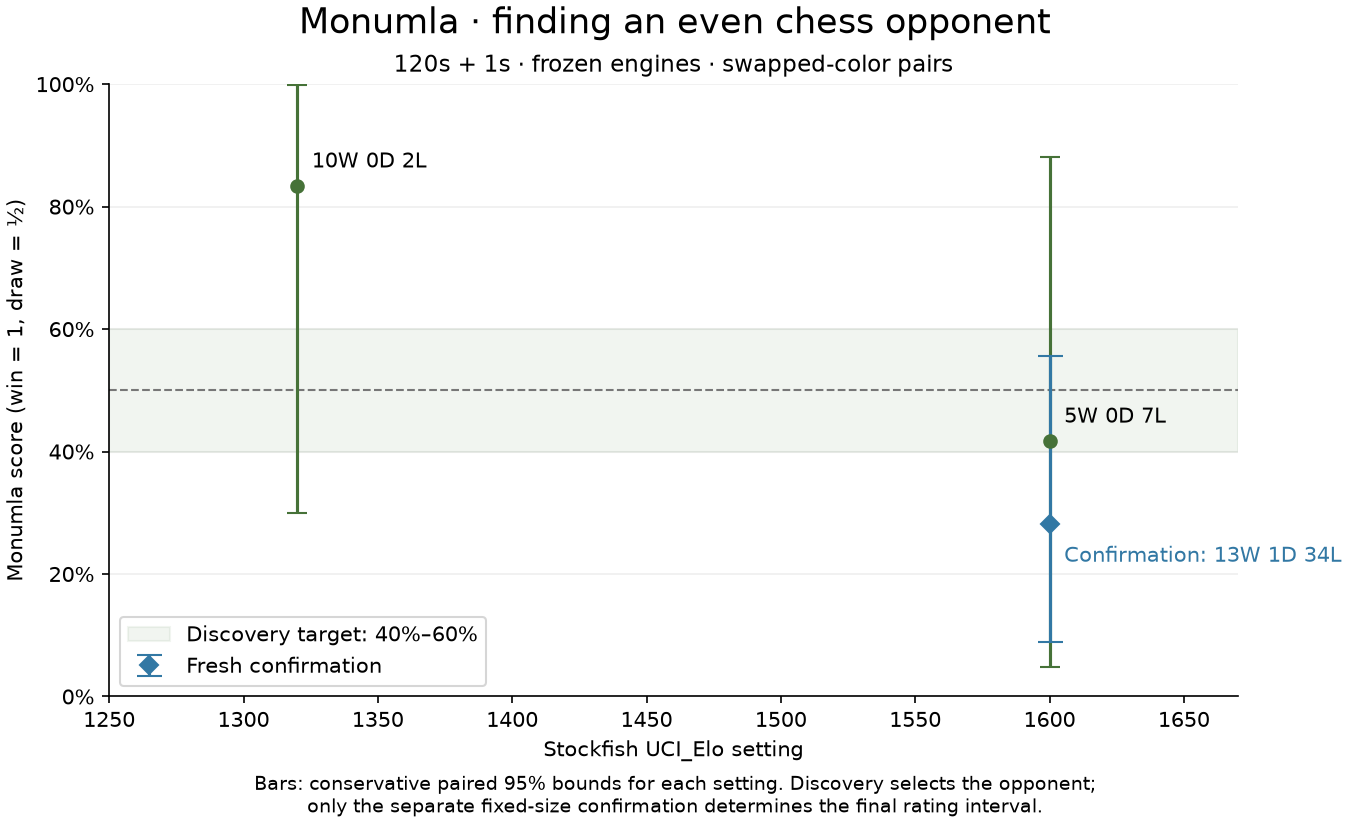
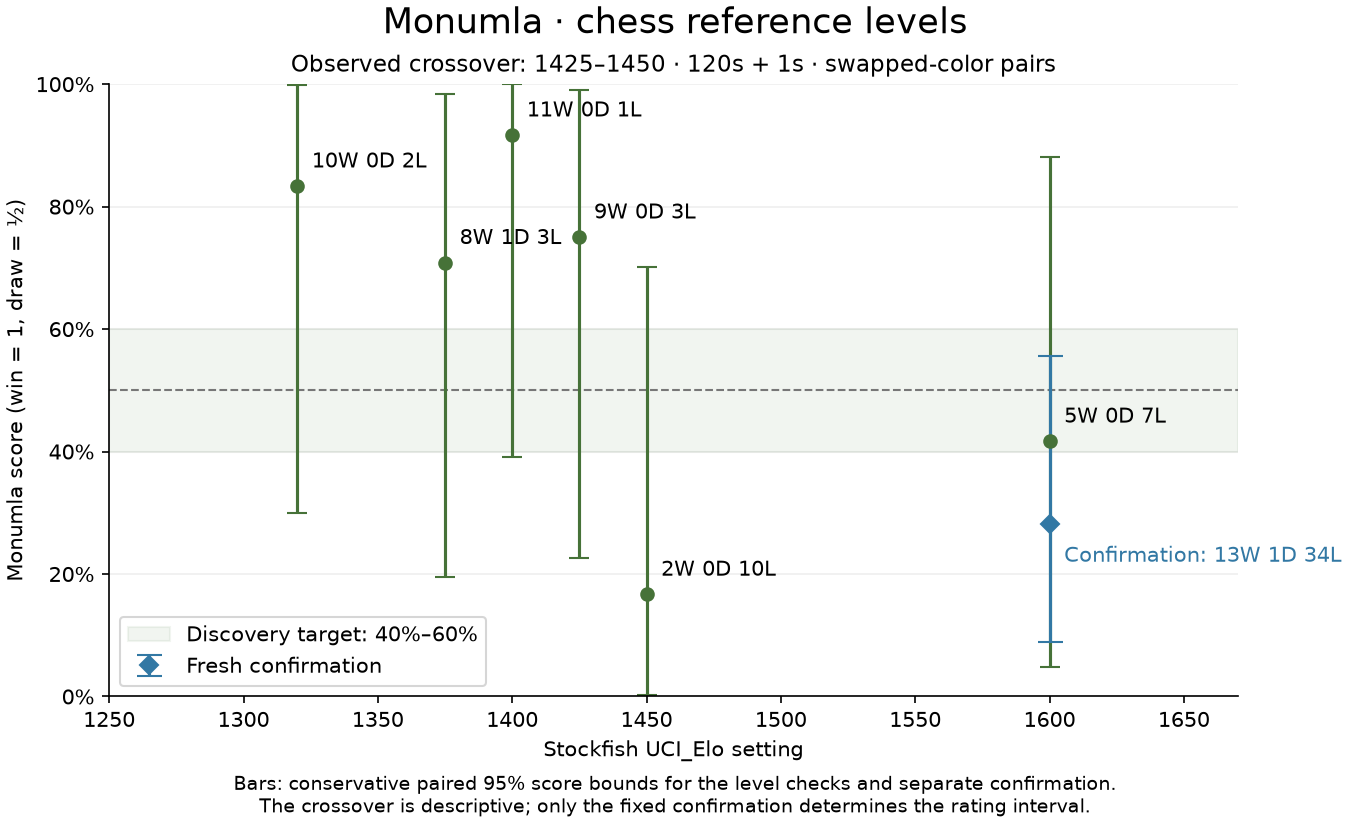
docs(bench): publish six-level Elo calibration

diff --git a/benchmarks/RESULTS.md b/benchmarks/RESULTS.md
@@ -138,6 +138,28 @@ The confirmation shows that 1600 is stronger than the desired even opponent in t
 
 ## Intended-move draw audit
 
-The first auditor checked current-position draw flags. It now also checks claims by an intended move and verifies claimed terminations without trusting PGN result tags. All **96 games completed so far** were re-audited with the frozen WASM rules. The 48-game primary match contains **15 optional intended-move claim positions**: 13 offered to Stockfish in games it eventually won, and two offered to Monumla in a game it won. No Stockfish draw opportunity was missed in a game Monumla won. Scores and the primary estimate are unchanged.
+The first auditor checked current-position draw flags. It now also checks claims by an intended move and verifies claimed terminations without trusting PGN result tags. The first **96 completed games** were re-audited with the frozen WASM rules. The 48-game primary match contains **15 optional intended-move claim positions**: 13 offered to Stockfish in games it eventually won, and two offered to Monumla in a game it won. No Stockfish draw opportunity was missed in a game Monumla won. Scores and the primary estimate are unchanged.
 
 The 1375 follow-up batch finished **8–1–3**. Its draw is a valid fifty-move claim by an intended move at halfmove 99. The exported PGN imports it as a generic recorded draw and omits the original intended SAN. The auditor independently verified legal witnesses `Kf5` and `Kf4`, applied a legal claim through the frozen API, and checked the exact resulting outcome. It records a witness rather than claiming to recover the original choice. Three optional repetition claims earlier in that game were available to Stockfish; the game ultimately ended drawn. Seven frozen-WASM integration checks cover valid current/intended claims, fabricated results, the claiming player and natural checkmate. These audit changes affect no engine, rules or match result.
+
+## Six-level chess calibration completed (2026-10-28)
+
+All **120 games** finished at **120s+1s**, with the same frozen Monumla and Stockfish binaries, one thread per engine, paired openings and four CPU slots. No game was discarded, forfeited or left unfinished.
+
+| Stockfish UCI_Elo | Stage | Monumla W–D–L | Score |
+|---|---|---|---|
+| 1320 | Initial pilot | 10–0–2 | 83.3% |
+| 1375 | Follow-up check | 8–1–3 | 70.8% |
+| 1400 | Follow-up check | 11–0–1 | 91.7% |
+| 1425 | Follow-up check | 9–0–3 | 75.0% |
+| 1450 | Follow-up check | 2–0–10 | 16.7% |
+| 1600 | Discovery probe | 5–0–7 | 41.7% |
+| 1600 | Independent fixed confirmation | 13–1–34 | 28.1% |
+
+[The complete level curve](elo-calibration.png) retains every batch, including the sharp and nonmonotone sample results. The **observed crossover is 1425–1450**, at the search's 25-Elo grid resolution. This is descriptive evidence from small batches, **not an exact equal-strength setting or a rating confidence interval**. Stockfish 19 chooses its weakened move at a depth determined by an integer skill component ([control definition](https://github.com/official-stockfish/Stockfish/blob/sf_19/src/search.h), [selection during search](https://github.com/official-stockfish/Stockfish/blob/sf_19/src/search.cpp)); this can introduce steps between nearby settings. Sampling noise remains substantial.
+
+The follow-up initially allowed up to eight probe/check batches. After inspecting that limiter, a separate resolution-stop declaration was recorded **before inspecting the completed 1425 result**: finish that entire batch, then stop at an observed near-even score or a crossover bracket no wider than the existing grid. This timing and the reason are retained in the published metadata. The final bracket has no fresh interior setting on that grid, so endpoint batches were not repeated to obtain an apparently even score. No Stockfish code or calibration coefficients were copied into Monumla.
+
+[The primary Elo result](elo.json) and [rating image](elo.png) remain **1437.0 [1195.5, 1638.5]** on the Stockfish UCI_Elo reference scale, using only the original **48-game confirmation**. Later checks did not refit, replace or select that estimate. This is a calibration baseline for the unchanged engine, not an Elo gain for its history journal.
+
+All **120 PGNs and 11,973 positions** passed the expanded frozen-WASM audit. It recorded **28 intended-move claim opportunities**, zero current-position claims, one independently reconstructed legal fifty-move claim, and zero invalid results. No unclaimed Stockfish draw opportunity occurred in a game Monumla won. The published JSON retains aggregate audit counts and the frozen WASM checksum; detailed records remain in ignored run directories. **38 Python benchmark tests, seven frozen-WASM result/claim checks, formatting and changed-file ESLint passed.**
